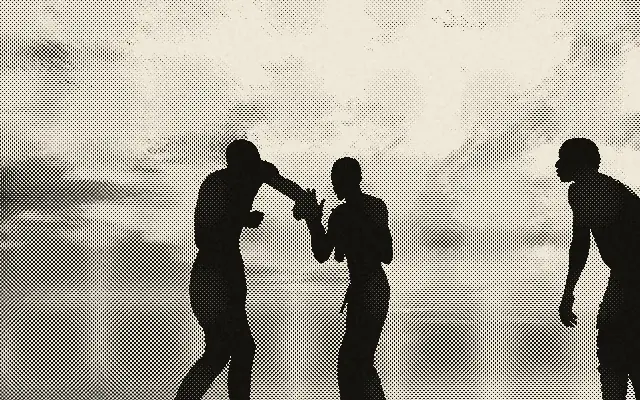
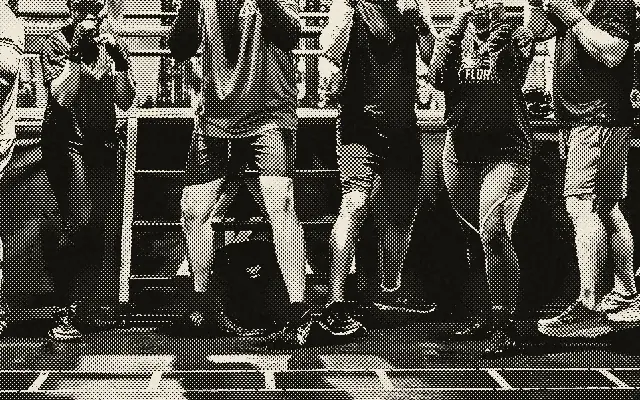
Remplacer l'image de l'article Jeu de jambes

diff --git a/content/fr/blog/jeu-de-jambes-boxe-shadow-boxing-les-bases.md b/content/fr/blog/jeu-de-jambes-boxe-shadow-boxing-les-bases.md
@@ -6,10 +6,9 @@ lastmod: 2026-11-14T08:00:00+01:00
 categories: ["Analyses"]
 tags: ["jeu de jambes", "shadow boxing", "technique", "débutant"]
 image: "/images/blog/jeu-de-jambes-boxe-shadow-boxing-les-bases.webp"
-imageAlt: "Silhouettes de deux boxeurs qui s'entraînent face à face sur une plage au crépuscule, un troisième les observe"
-imageCredit: "Photo : Krigers Naidoo, CC BY-SA 4.0, via Wikimedia Commons. Image retouchée (trame de journal), diffusée sous la même licence."
-imageSource: "https://commons.wikimedia.org/wiki/File:Beach_boxers.jpg"
-imageLicenseUrl: "https://creativecommons.org/licenses/by-sa/4.0"
+imageAlt: "Jambes et pieds d'un groupe de pratiquants alignés en position de garde devant un ring"
+imageCredit: "Photo : U.S. Air Force photo by Airman 1st Class Zeeshan Naeem (domaine public), via Wikimedia Commons. Image retouchée (trame de journal)."
+imageSource: "https://commons.wikimedia.org/wiki/File:%22Deterrence_through_strength%E2%80%9D-_Lt_Col_Trumble_on_Boxing_and_Air_Force_readiness_(8925940).jpg"
 faq:
   - question: "C'est quoi le jeu de jambes en boxe ?"
     answer: "C'est l'ensemble des déplacements et des appuis du boxeur. Un bon jeu de jambes permet de se déplacer vite dans toutes les directions tout en restant assez stable pour frapper de façon contrôlée. Il sert autant à attaquer qu'à esquiver et à gérer la distance."
